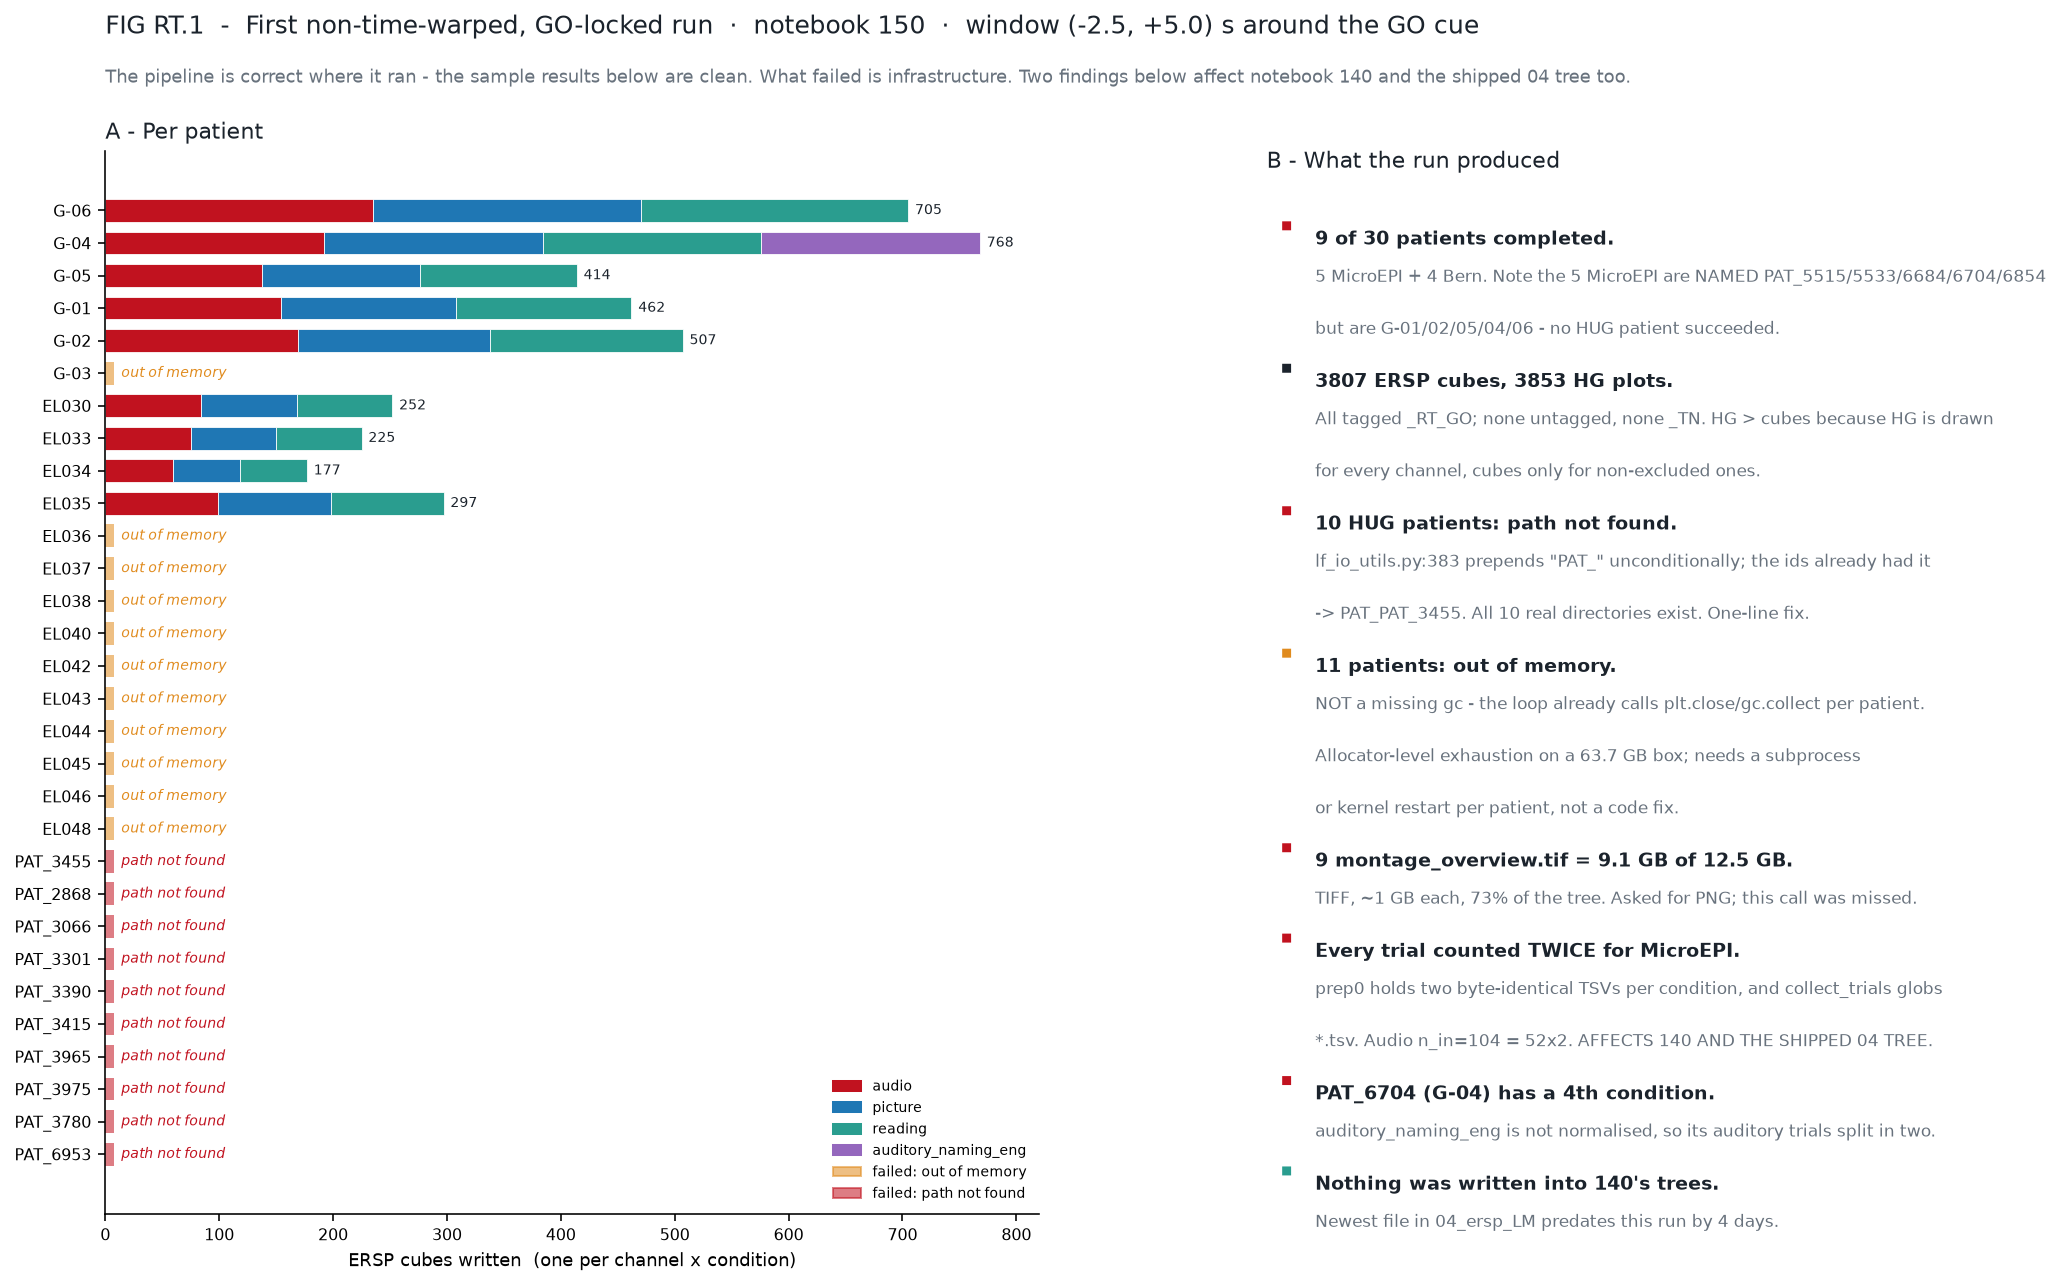
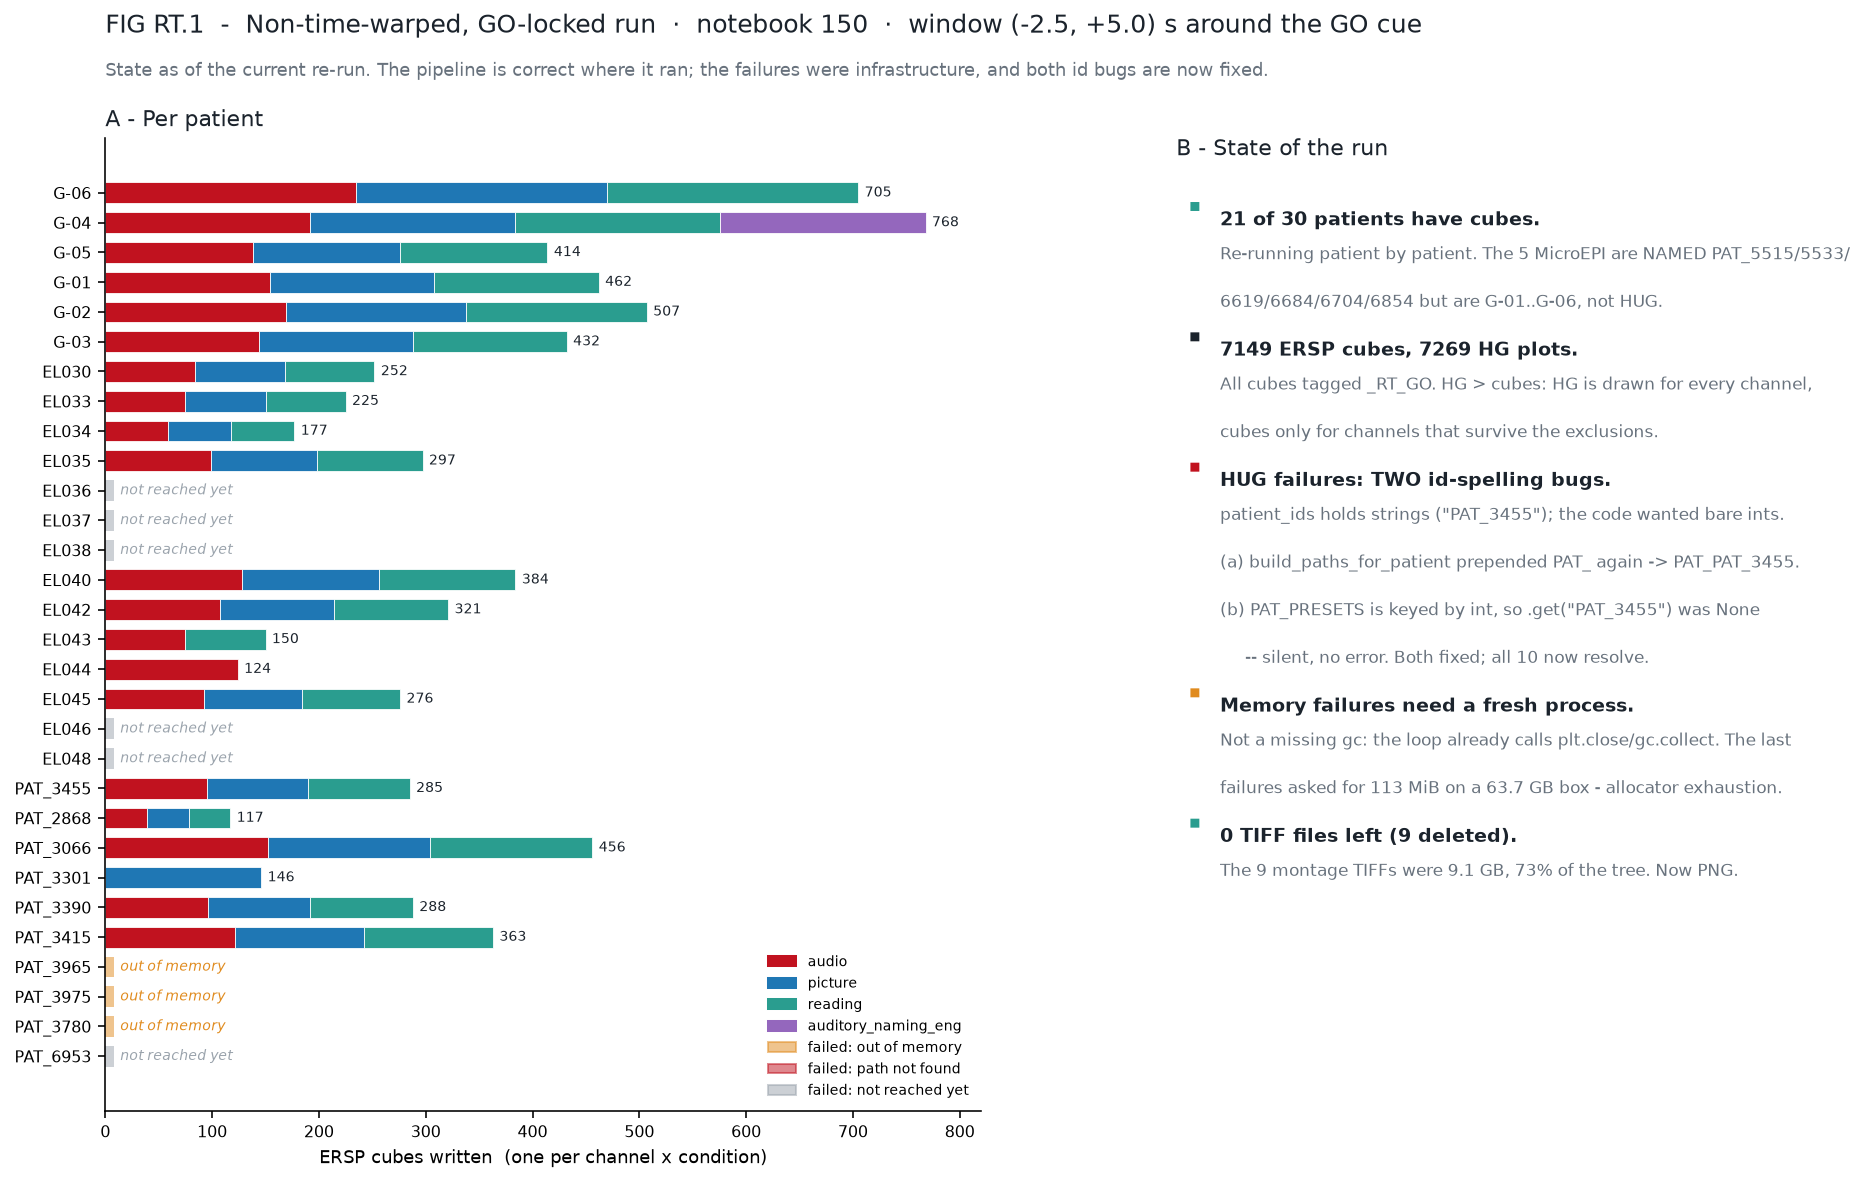
Decode the HUG failure, rebuild FIG RT.1/RT.3, update integrity+caveats
WHY THE PAT_ PATIENTS NEVER RAN -- one id spelled two ways, breaking two
places. cfg.patient_ids holds strings ("PAT_3455"); the code was written
for bare ints (3455).

  (a) build_paths_for_patient prepended PAT_ regardless -> PAT_PAT_3455.
      Fixed 2026-08-11. That one at least raised WinError 3.
  (b) PAT_PRESETS is keyed by INT, so PAT_PRESETS.get("PAT_3455") returned
      None SILENTLY -- no error, no log line. Fixed here by registering
      every spelling ("3455", "PAT_3455", 3455).

Verified: all 10 HUG patients now resolve both their raw directory and
their preset. No HUG data was ever missing.

FIG RT.1 rebuilt from the current tree: 21 of 30 patients have cubes (was
9), including six HUG patients that could not start before. 3 still fail
on memory, 6 not yet reached.

FIG RT.3 redrawn on the project's own conventions rather than mine: cmap
bwr at +/-6 dB, matching save_clean_png and cfg.vmin/vmax, and the display
capped at +3 s after the GO cue.

Site: §1.9 updated to the current state, integrity notes for the 05 tree
(duplicate TSVs, the id bugs, deleted TIFFs, unstored axes, interpolated
cube edges), a 2026-08-14 lab notebook day, and a "Real time (05) -- open
items" block in caveats.

diff --git a/analysis_status.html b/analysis_status.html
@@ -439,10 +439,12 @@
     <div class="callout warn" style="margin:0 0 18px">
       <b>Read this before using the run.</b> The <i>signal</i> is clean &mdash; the two sample figures below
       are exactly what a GO-locked analysis should look like. The <i>run</i> is not: <b>9 of 30 patients
-      completed</b>, and two of the defects found while checking it <b>also affect notebook 140 and the
-      shipped <code>04_ersp_LM_RAWONLY</code> tree</b>.
-      <b>All four causes were fixed on 2026-08-11 (see below), but this run predates the fixes and has not
-      been redone.</b> Treat the cubes on disk as a pipeline test, not as data.
+      completed on the first pass</b>, and two of the defects found while checking it <b>also affect
+      notebook 140 and the shipped <code>04_ersp_LM_RAWONLY</code> tree</b>.
+      <b>All four causes were fixed on 2026-08-11, and the run was restarted patient by patient on
+      2026-08-14.</b> FIG RT.1 shows the current state: <b>21 of 30 patients have cubes</b>, including six
+      HUG patients that could not start before. Cubes written before 2026-08-11 are a pipeline test, not
+      data.
     </div>
 
     <figure><div class="cap"><div class="fignum">FIG RT.1</div>
@@ -565,6 +567,15 @@
           Enumerating language codes one at a time was the actual bug; the next one cannot repeat it.
           Notebook 150 also passes <code>cfg.COND_ALIAS</code>, which it never did.
           <b>Effect:</b> G-04's fourth condition folder is gone; its auditory trials are one set again.</li>
+        <li><b>Why the HUG patients never ran: one id, spelled two ways, breaking two places.</b>
+          <code>cfg.patient_ids</code> holds <b>strings</b> (<code>"PAT_3455"</code>) while the code was
+          written for <b>bare integers</b> (<code>3455</code>).
+          <b>(a)</b> <code>build_paths_for_patient</code> prepended <code>PAT_</code> regardless, so it
+          looked for <code>PAT_PAT_3455</code> &mdash; that one at least raised WinError&nbsp;3.
+          <b>(b)</b> <code>PAT_PRESETS</code> is keyed by <b>int</b>, so
+          <code>PAT_PRESETS.get("PAT_3455")</code> returned <code>None</code> <b>silently</b>, with no
+          error at all. Both are fixed and every spelling now registers; all 10 HUG patients resolve both
+          their raw directory and their preset. <b>No HUG data was ever missing.</b></li>
         <li><b><code>build_paths_for_patient</code> accepts both HUG spellings.</b> It prepended
           <code>PAT_</code> unconditionally; <code>config.py</code>'s older patient lists use bare numbers
           (<code>3455</code>) and the current one uses <code>PAT_3455</code>. Both now resolve to
@@ -2280,6 +2291,15 @@
   </ul>
 </div>
 
+<div class="nb-day"><div class="nb-date"><span>2026-08-14</span><span class="tag">real-time re-run; the HUG id bug decoded</span></div><div class="nb-row"><div class="nb-stage">01 &middot; ERSP</div><div class="nb-body"><ul>
+<li><b>Re-run restarted patient by patient</b> after the 2026-08-11 fixes. <b>21 of 30 now have cubes</b> (was 9), including six HUG patients that could not start at all before. <a href="#realtime">FIG RT.1 rebuilt</a>.</li>
+<li><b>The HUG failure decoded, and it was two bugs, not one.</b> <code>patient_ids</code> holds strings (<code>"PAT_3455"</code>), the code expected bare ints. <code>build_paths_for_patient</code> prepended <code>PAT_</code> anyway &rarr; <code>PAT_PAT_3455</code> (raised); and <code>PAT_PRESETS</code> is keyed by <b>int</b>, so <code>.get("PAT_3455")</code> returned <code>None</code> <b>with no error</b>. Both fixed; all 10 resolve path <i>and</i> preset. No data was missing.</li>
+<li><b>ERSP_clean PNGs were unreadable and are fixed.</b> They are what MOBA shows on an electrode click. The full 0&ndash;500&nbsp;Hz band was drawn (60% of the frame is noise) in a square frame, which squashed a 129&times;480 cube into its frequency extent. Now cropped to 0&ndash;200&nbsp;Hz and drawn wide &mdash; picture only, the <code>.npy</code> is untouched. 140's rendering is unchanged (regression-checked: same 1200&times;1200, 99.76% identical pixels).</li>
+<li><b>FIG RT.3 redrawn on the project's own scale</b> &mdash; <code>bwr</code> at &plusmn;6&nbsp;dB, matching <code>save_clean_png</code> and <code>cfg.vmin/vmax</code>, and the display capped at <b>+3&nbsp;s after GO</b>.</li>
+<li><b>9 montage TIFFs deleted</b> &mdash; 9.13&nbsp;GB, 73% of that tree.</li>
+</ul></div></div><div class="nb-row"><div class="nb-stage">02 &middot; Clustering</div><div class="nb-body"><ul>
+<li><b>Graded vs classic partition written up in full</b> &mdash; <a href="#gradedvspartition">a 12-row ledger</a>, every number re-derived. It also records three places the comparison had been presented unfairly, including FIG C.3 panel D comparing graded K=7 against k-means K=5 (at matched granularity the gap is ~7%, not ~47%).</li>
+</ul></div></div><div class="nb-row"><div class="nb-stage">03 &middot; Decoding</div><div class="nb-body"><span class="nb-na">N/A</span></div></div><div class="nb-row"><div class="nb-stage">04 &middot; Pooling</div><div class="nb-body"><span class="nb-na">N/A</span></div></div></div>
 <div class="nb-day"><div class="nb-date"><span>2026-08-11</span><span class="tag">real time, GO-locked &mdash; first run and four fixes</span></div><div class="nb-row"><div class="nb-stage">01 &middot; ERSP</div><div class="nb-body"><ul>
 <li><b>New notebook 150</b>, a copy of 140 with nothing time-warped: epochs cut in real seconds and centred on the <b>GO cue</b> (the stimulus offset &mdash; there is still <b>no speech-onset event anywhere in the data</b>). One output root, <code>05_ERSP_LM_RAWONLY_RealTime</code>, holding GO-locked HG plots sorted by response duration and the <code>_RT_GO</code> cubes. <code>lf_ersp</code> gained <code>align="onset"|"go"</code> in both <code>compute_ersp</code> and <code>plot_hg_trials</code>; the onset path is byte-identical to before and TN is untouched. <a href="#realtime">&sect;1.9, FIG RT.1&ndash;3</a>.</li>
 <li><b>The signal is right.</b> On synthetic data with scrambled stimulus durations, GO alignment recovers a burst planted 0.25&nbsp;s after GO to within one grid step regardless of window or stimulus length, while onset alignment smears it to +1.56&nbsp;s. On real data the sample electrode shows high-gamma switching on at GO as a vertical band across trials.</li>
@@ -2500,6 +2520,28 @@
       rejection log is overwritten each run, so it cannot say why they went. Until that is settled the snapshot is
       being kept: it is currently the only copy.
     </div>
+  
+    <h3>Real-time (05) tree &mdash; integrity notes, 2026-08-14</h3>
+    <div class="method"><ul>
+      <li><b>Duplicate trial tables, now fixed at source.</b> <code>prep0</code> held byte-identical
+        <code>2026-05-08</code>/<code>2026-05-12</code> TSV pairs for 4 of the 6 MicroEPI patients, and
+        <code>collect_trials</code> globbed <code>*.tsv</code>, so <b>every trial was counted twice</b>
+        (audio <code>n_in = 104 = 52&times;2</code>). Files are now skipped by <b>content hash</b>; only
+        byte-identical ones are dropped, so genuine multi-block data is safe. <b>This also changes notebook
+        140</b> &mdash; the shipped <code>04_ersp_LM_RAWONLY</code> tree was built with the doubling and no
+        longer matches the code that would regenerate it.</li>
+      <li><b>Two id-spelling bugs cost all 10 HUG patients</b> on the first pass; one raised, one was
+        silent. Both fixed. See <a href="#realtime">&sect;1.9</a>.</li>
+      <li><b>9 montage TIFFs deleted</b> (9.13&nbsp;GB, 73% of that tree). They are PNG now, ~10&times;
+        smaller. Tree went 12.50&nbsp;&rarr;&nbsp;4.47&nbsp;GB.</li>
+      <li><b>Axes are not stored in the cubes.</b> A <code>_RT_GO.npy</code> is <code>(129, nt)</code> with
+        frequency <code>linspace(0,&nbsp;500,&nbsp;129)</code> and time
+        <code>linspace(-2.5,&nbsp;5.0,&nbsp;nt)</code>, both reconstructed by the reader.
+        <b><code>nt</code> varies by patient <i>and</i> condition</b> (369&ndash;625, ten distinct values),
+        so anything stacking them must resample first.</li>
+      <li><b>Cube edges are interpolated, not measured.</b> The last column is set to NaN by construction
+        and then nearest-filled, so 3&ndash;5 trailing columns are duplicates.</li>
+    </ul></div>
   </section>
 
   <section id="caveats">
@@ -2894,6 +2936,22 @@
     <p class="lead">The things that are genuinely your call, and the small refreshes needed before this is
       paper‑ready. Nothing here blocks the current results — they're pointers.</p>
 
+    <h3>Real time (05) &mdash; open items</h3>
+    <div class="method"><ul>
+      <li><b>Finish the re-run.</b> 21 of 30 have cubes; 3 HUG patients still fail on memory and 6 are not
+        reached. Memory needs a <b>fresh process per patient</b>, not a code change &mdash; the loop already
+        calls <code>gc.collect()</code> and the failures ask for 113&nbsp;MiB on a 63.7&nbsp;GB machine.</li>
+      <li><b>Re-render the ERSP_clean PNGs</b> once the run finishes. They can be rebuilt from the cubes
+        already on disk in one pass; no pipeline time needed. Started and stopped on 2026-08-14 to avoid
+        writing underneath the live run.</li>
+      <li><b>The shipped <code>04_ersp_LM_RAWONLY</code> tree is now inconsistent with the code.</b> The
+        duplicate-TSV fix changes 140's trial counts for the 4 affected MicroEPI patients. Decide whether
+        to regenerate it or to freeze it with a note.</li>
+      <li><b>Stage 05 needs its own loader.</b> Cube width varies by patient and condition and the axes are
+        not stored; <code>02_FBM_Clustering</code>'s loaders assume 300 warped bins.</li>
+      <li><b>Still no speech-onset event.</b> Everything is locked to the GO cue, not to when the patient
+        actually spoke. Worth deciding whether that is good enough for the response-timing claim.</li>
+    </ul></div>
     <h3>Decisions only you can make</h3>
     <div class="method"><ul>
       <li><b>Clustering headline (02).</b> HG (K=9, fully validated) vs the downsampled 212 track that <code>NOTEBOOKS.md</code> still names. Recommendation: HG headline, 212/raw as corroboration.</li>

diff --git a/01_FBM_Analysis/functions/config.py b/01_FBM_Analysis/functions/config.py
@@ -15,7 +15,7 @@ patient_ids = ["G-06", "G-04", "G-05","G-01", "G-02", "G-03","EL030","EL034","EL
 
 patient_ids = ["G-06", "G-04", "G-05", "G-01", "G-02","G-03", "EL030","EL033","EL034","EL035","EL036","EL037","EL038","EL040","EL042","EL044","EL045", 2868, 3066, 3301, 3390, 3415, 3455, 3965, 3975, 3780] #,"EL043"
 # patient_ids = ["G-06", "G-04", "G-05"]#, 3415, 3455, 3965, 3975, 3780]
-patient_ids = ["G-06", "G-04", "G-05", "G-01","G-02", "G-03", "EL030","EL033","EL034","EL035","EL036","EL037","EL038","EL040","EL042","EL043","EL044","EL045","EL046","EL048", "PAT_3455","PAT_2868","PAT_3066", "PAT_3301","PAT_3390","PAT_3415","PAT_3965","PAT_3975","PAT_3780"]  
+patient_ids = ["G-06", "G-04", "G-05", "G-01","G-02", "G-03", "EL030","EL033","EL034","EL035","EL036","EL037","EL038","EL040","EL042","EL043","EL044","EL045","EL046","EL048", "PAT_3455","PAT_2868","PAT_3066", "PAT_3301","PAT_3390","PAT_3415","PAT_3965","PAT_3975","PAT_3780","PAT_6953"]  
 
 block_name  = "LM"
 conditions_expected = ("picture", "audio", "reading")
@@ -222,7 +222,16 @@ PAT_PRESETS = {
     3965: dict(trig="x1",    flip=False, time_range=(40, 1295),  invalid_trials=[0,1,2,54,55,56,107,108,109], trial_ids=["picture"]*54 + ["auditory"]*53 + ["reading"]*53, fake_trials=[], manual_trig=None),
     3975: dict(trig="E2",    flip=False, time_range=(200, 1550), invalid_trials=[], trial_ids=["picture"]*50 + ["auditory"]*50 + ["reading"]*51, fake_trials=[], manual_trig="PAT_3975__FLM_all.tsv"),
     3780: dict(trig="X2",    flip=False, time_range=(0, -1),     invalid_trials=[], trial_ids=["picture"]*51 + ["auditory"]*50 + ["reading"]*50, fake_trials=[], manual_trig="PAT_3780_FLM_all.tsv"),
+    6953: dict(trig="X2",    flip=False, time_range=(188, 1180),     invalid_trials=[59,92], trial_ids=["picture"]*51 + ["auditory"]*65 + ["reading"]*53, fake_trials=[52, 59, 60, 62, 63,89,98, 113, 117,118,119,120], manual_trig=None),
 }
+
+# PAT_PRESETS is keyed by INT (3455) but patient_ids supplies STRINGS (PAT_3455),
+# so PAT_PRESETS.get(pid) silently returned None for every HUG patient. That is the
+# same id-spelling mismatch that made build_paths_for_patient look for PAT_PAT_3455;
+# it just fails quietly here instead of raising. Register every spelling.
+PAT_PRESETS.update({str(_k): _v for _k, _v in list(PAT_PRESETS.items())})
+PAT_PRESETS.update({f"PAT_{_k}": _v for _k, _v in list(PAT_PRESETS.items())
+                    if not str(_k).startswith("PAT_")})
 
 # EL_PATIENTS = ["EL030","EL034","EL035","EL036","EL037","EL038","EL039","EL040","EL042","EL043","EL044","EL045"]
 EL_PATIENTS = ["EL033","EL034","EL036","EL039","EL040","EL041","EL043","EL044","EL045"]
@@ -244,8 +253,8 @@ EL_PRESETS = {
     "EL044": dict(trig="DC6", flip=False, time_range=(2478, 4290),invalid_trials=[0,1], trial_ids=["picture"]*2 + ["auditory"]*53 + ["reading"]*0, fake_trials=[], manual_trig=None),
     "EL045": dict(trig="DC6", flip=False, time_range=(176, 1468), invalid_trials=[0,1,2,54,55,56,107,108,109], trial_ids=["picture"]*54 + ["auditory"]*53 + ["reading"]*53, fake_trials=[], manual_trig=None),
 
-    "EL046": dict(trig="DC6", flip=False, time_range=(0, 1468), invalid_trials=[0,1,2,54,55,56,107,108,109], trial_ids=["picture"]*54 + ["auditory"]*53 + ["reading"]*53, fake_trials=[], manual_trig=None),
-    "EL048": dict(trig="DC6", flip=False, time_range=(0, 1468), invalid_trials=[0,1,2,54,55,56,107,108,109], trial_ids=["picture"]*54 + ["auditory"]*53 + ["reading"]*53, fake_trials=[], manual_trig=None),
+    "EL046": dict(trig="DC6", flip=True, time_range=(22120, 26000), invalid_trials=[0,1,2,54,55,56,107,108,109], trial_ids=["picture"]*54 + ["auditory"]*53 + ["reading"]*53, fake_trials=[], manual_trig=None),
+    "EL048": dict(trig="DC6", flip=False, time_range=(4600, 8468), invalid_trials=[0,1,2,54,55,56,107,108,109], trial_ids=["picture"]*54 + ["auditory"]*53 + ["reading"]*53, fake_trials=[], manual_trig=None),
 }
 
 # MICROEPI_PATIENTS = ["G-01","G-02","G-03","G-04","G-05"]
